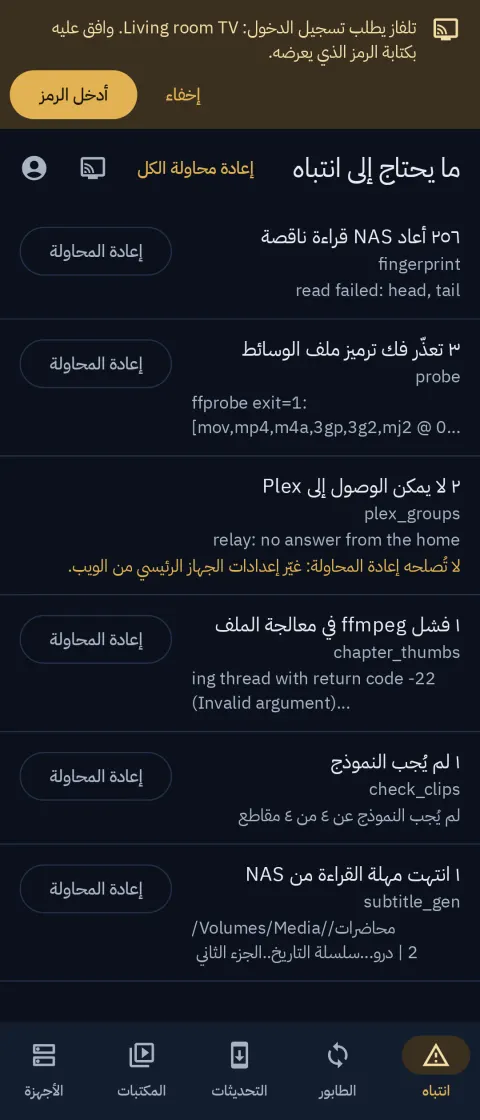
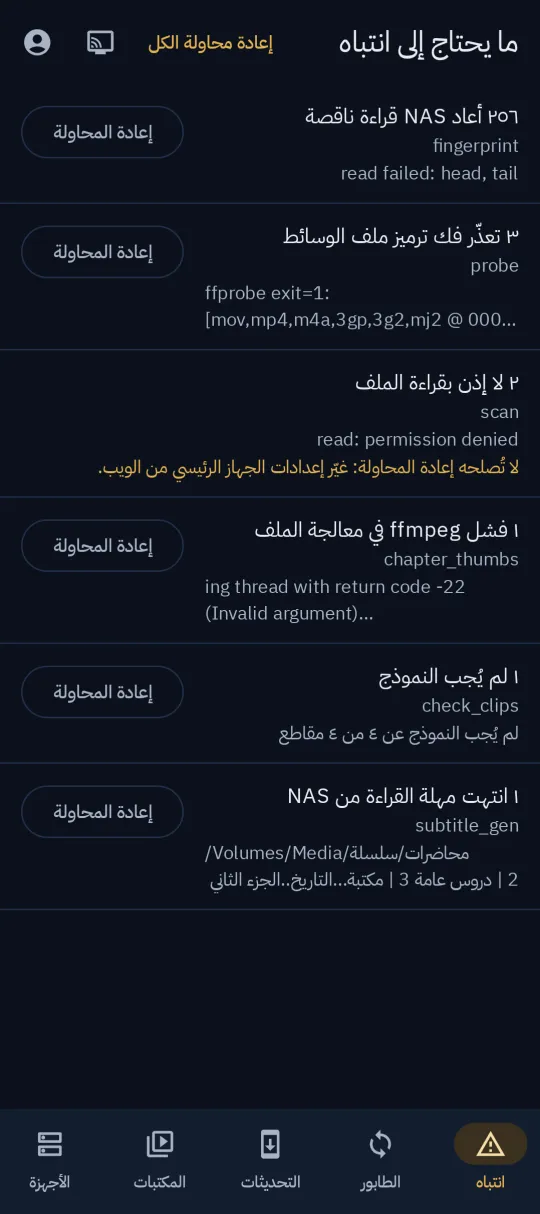
fix(demo shots): no Plex in the Remote's attention fixture; maktaba.dev drops two old-library Fire TV shots
- The Android Remote's Needs attention fixture (FakeRemoteHome.ISSUES) had a "Plex is
  unreachable" group. Its references are cut for maktaba.dev and the store galleries, which keep
  third-party product names out. The group is now a first-party cause with the same
  "change the settings" action (permission_denied). The references that draw the list were
  re-recorded: attention, approvetv and pending on the fold covers. Three unrelated ones the Mac
  recording moved by 0.01-0.10% (diagnostics, report form) were restored.
- A phone-sized Arabic attention reference (attention_pixelfoldcover_dark_ar) joins the
  English one. maktaba.dev's android-remote-attention-{en,ar}.webp are cut from the pair, and
  its alt text says what the screen now shows.
- maktaba.dev's firetv-home and firetv-library screenshots were taken on the old demo library
  (Blender's open movies, Sintel among the posters). Demo media must show no women, so both
  shots and their four files are gone from the TV page. The Fire TV sign-in shot stays.

devportal: npm run build, scan and test pass (125).

diff --git a/apps/android/remote/src/test/kotlin/com/hamzalabs/maktaba/remote/FakeRemoteHome.kt b/apps/android/remote/src/test/kotlin/com/hamzalabs/maktaba/remote/FakeRemoteHome.kt
@@ -93,12 +93,14 @@ class FakeRemoteHome : ExternalResource() {
     companion object {
         /**
          * Shaped like a home's Needs attention on build 0.3.62 (2026-11-03): what the home sent, with the
-         * generated causes ("kind:normalised message") and an ffmpeg tail with a repr's `\n`.
+         * generated causes ("kind:normalised message") and an ffmpeg tail with a repr's `\n`. Its
+         * one "change the settings" group is a first-party cause (no third-party product's name:
+         * these references are cut for maktaba.dev and the store galleries).
          */
         val ISSUES = """{"groups":[
             {"stage":"fingerprint","cause":"nas_partial_read","label":"NAS returned a partial read","count":256,"action":"retry","sample_message":"read failed: head, tail"},
             {"stage":"probe","cause":"ffmpeg_decode","label":"Could not decode the media file","count":3,"action":"retry","sample_message":"ffprobe exit=1: [mov,mp4,m4a,3gp,3g2,mj2 @ 000001facc7850c0] moov atom not found"},
-            {"stage":"plex_livetv","cause":"plex_unreachable","label":"Plex is unreachable","count":2,"action":"open_settings","sample_message":"relay: no answer from the home"},
+            {"stage":"scan","cause":"permission_denied","label":"No permission to read the file","count":2,"action":"open_settings","sample_message":"read: permission denied"},
             {"stage":"chapter_thumbs","cause":"ffmpeg_rc","label":"ffmpeg failed on the file","count":1,"action":"retry","sample_message":"ing thread with return code -22 (Invalid argument)\\n[out#0/image2 @ 0x6000]"},
             {"stage":"check_clips","cause":"model_unavailable:<n> of <n> clips got no answer from the model","label":"model_unavailable:<n> of <n> clips got no answer from the model","count":1,"action":"retry","sample_message":"4 of 4 clips got no answer from the model"},
             {"stage":"subtitle_gen","cause":"nas_timeout:<path> محاضرات/سلسلة التاريخ..الجزء الثاني<n> | دروس عامة <n> | مكتبة البيت.mp<n>>: no answer","label":"nas_timeout:<path> محاضرات/سلسلة التاريخ..الجزء الثاني<n> | دروس عامة <n> | مكتبة البيت.mp<n>>: no answer","count":1,"action":"retry","sample_message":"/Volumes/Media/محاضرات/سلسلة التاريخ..الجزء الثاني 2 | دروس عامة 3 | مكتبة البيت.mp4: no answer"}

diff --git a/apps/android/remote/src/test/kotlin/com/hamzalabs/maktaba/remote/AttentionScreenshotTest.kt b/apps/android/remote/src/test/kotlin/com/hamzalabs/maktaba/remote/AttentionScreenshotTest.kt
@@ -61,6 +61,10 @@ class AttentionScreenshotTest {
     @Test @Config(qualifiers = "w411dp-h923dp-420dpi")
     fun pixelFoldCoverEnglish() = shoot(RemoteWindow.PixelFoldCover, "attention_pixelfoldcover_dark_en")
 
+    // a phone-sized pair in both languages: maktaba.dev's android-remote-attention is cut from it
+    @Test @Config(qualifiers = "ar-w411dp-h923dp-420dpi")
+    fun pixelFoldCoverArabic() = shoot(RemoteWindow.PixelFoldCover, "attention_pixelfoldcover_dark_ar")
+
     private companion object {
         // text is drawn by the host's font rasteriser: a reference recorded on a Mac still matches
         // on CI's Linux within a small share of pixels
